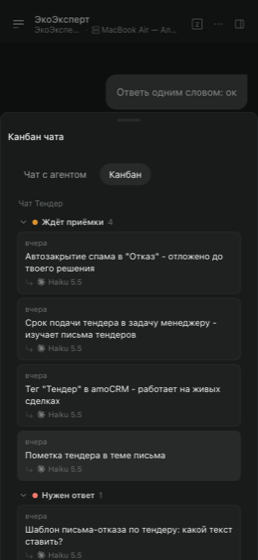
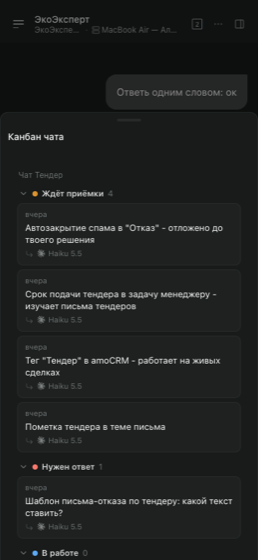
Kanban 0.1.8: no tabs in the phone sheet, swipe down returns to the chat

diff --git a/client/overlay.tsx b/client/overlay.tsx
@@ -4,30 +4,12 @@ import type { PluginButtonContentProps, PluginClientContext, PluginScreenProps }
 import { ChatView } from "./board";
 import { palette, T } from "./ui";
 
-// Phone: the chat kanban opens over the chat; the "Чат с агентом" tab just closes the window.
+// Phone: the chat kanban opens as a sheet over the chat; swiping it down returns to the chat.
 export function overlayFor(client: PluginClientContext, workspaceId: string, chatId: string) {
   return function KanbanOverlay({ theme, host, close }: PluginButtonContentProps) {
-    const p = palette(theme);
     const height = Math.round(Dimensions.get("window").height * 0.8);
-    const tab = (label: string, active: boolean, onPress?: () => void) => (
-      <Pressable
-        accessibilityRole="tab"
-        accessibilityLabel={label}
-        accessibilityState={{ selected: active }}
-        onPress={onPress}
-        style={{ paddingHorizontal: 14, paddingVertical: 7, borderRadius: 999, backgroundColor: active ? p.button : "transparent" }}
-      >
-        <T color={active ? p.fg : p.fg2} size={14}>
-          {label}
-        </T>
-      </Pressable>
-    );
     return (
       <View testID="kanban-overlay" style={{ height, width: "100%" }}>
-        <View style={{ flexDirection: "row", gap: 6, paddingHorizontal: 10, paddingTop: 4, paddingBottom: 6 }}>
-          {tab("Чат с агентом", false, close)}
-          {tab("Канбан", true)}
-        </View>
         <ChatView
           workspaceId={workspaceId}
           theme={theme}

diff --git a/OVERVIEW.md b/OVERVIEW.md
@@ -6,7 +6,7 @@
 
 - вкладку "Канбан" пространства (кнопка "Канбан" в шапке и ⌘K): колонки по статусу, агенту, исполнителю, нейросети или дате, сортировка внутри колонок, свёрнутый "Архив" под каждой колонкой, скрытие архивных и показ последнего ответа исполнителя;
 - "Канбан" чата в правой панели (меню "+" рядом с "Файлы" и "Изменения"): открывается сам, когда чат на экране заводит первого исполнителя, и показывает чат выбранной вкладки;
-- строка "Канбан" в левом меню - общий канбан с выбором пространства; на телефоне у каждого чата пилюля "Канбан": окно поверх чата с табами "Чат с агентом" и "Канбан";
+- строка "Канбан" в левом меню - общий канбан с выбором пространства; на телефоне у каждого чата пилюля "Канбан": лист поверх чата с карточками этого чата, смахни вниз - вернёшься в чат;
 - клик по карточке открывает диалог исполнителя родной вкладкой Paseo с очередью сообщений;
 - над полем ввода исполнителя - статус, "Принять" (метка `kanban=done`) и "Вернуть" (замечание уходит исполнителю сообщением).
 

diff --git a/README.md b/README.md
@@ -38,12 +38,14 @@
 лист) с табами "Чат с агентом" (закрывает окно) и "Канбан" (карточки этого чата). Тап по карточке открывает диалог
 исполнителя через экран-переходник `open-agent`: у поповеров нет navigation. Вкладка-на-пространство из 0.1.6 убрана.
 
+0.1.8 (22.10.2026): табы в окне на телефоне убраны по просьбе Александра - в чат возвращает смахивание листа вниз.
+
 ## Установка и обновление
 
 Как у Диалогов: основной Paseo грузит плагин из клона по тегу, а не из этого каталога.
 
 ```sh
-git clone --branch v0.1.7 /Users/agmazin/Yandex.Disk.localized/public/projects/local/paseo-kanban /Users/agmazin/Library/Developer/paseo-releases/paseo-kanban
+git clone --branch v0.1.8 /Users/agmazin/Yandex.Disk.localized/public/projects/local/paseo-kanban /Users/agmazin/Library/Developer/paseo-releases/paseo-kanban
 ln -s /Users/agmazin/Library/Developer/paseo-kanban/node_modules /Users/agmazin/Library/Developer/paseo-releases/paseo-kanban/node_modules
 paseo plugin install /Users/agmazin/Library/Developer/paseo-releases/paseo-kanban
 ```
